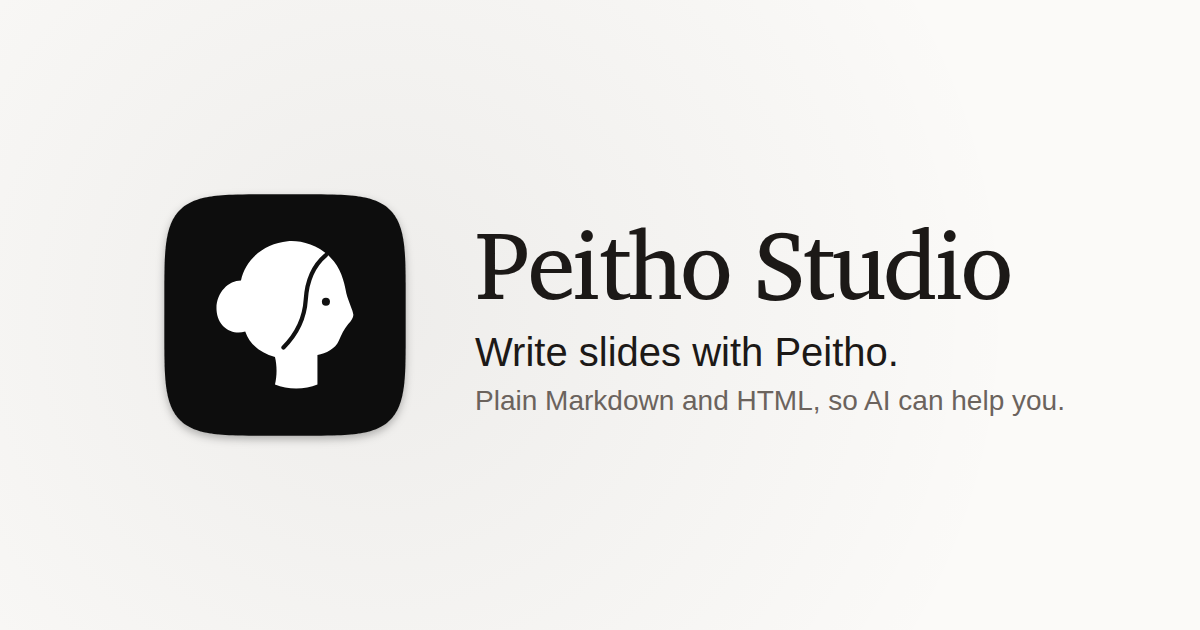
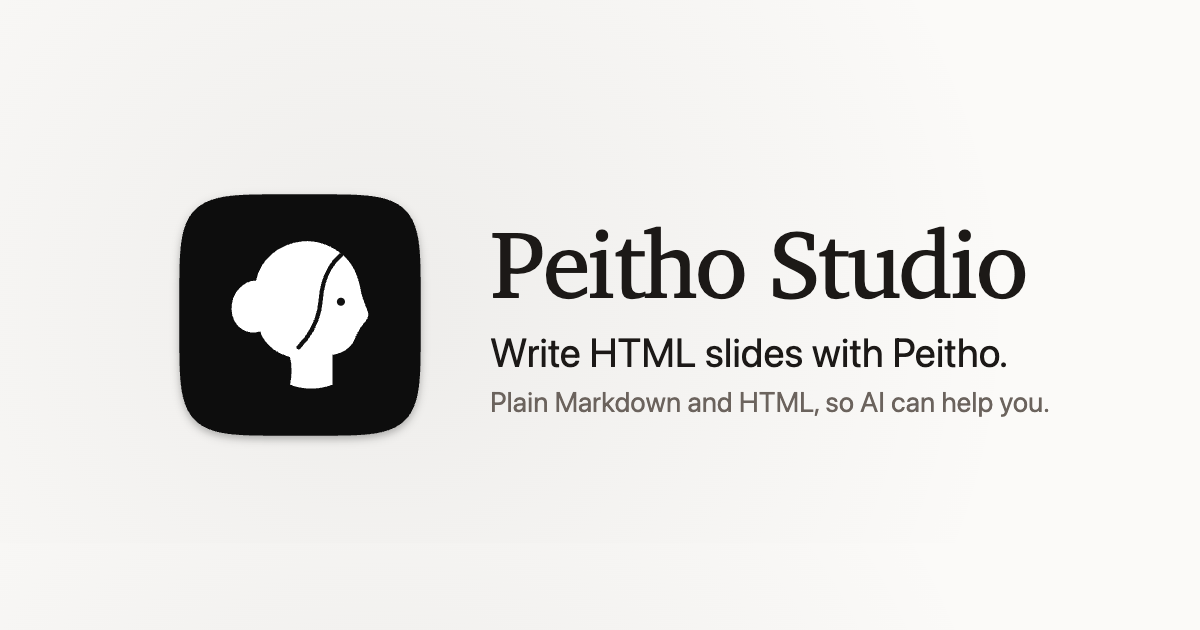
Clarify HTML slides in product tagline

diff --git a/site/index.html b/site/index.html
@@ -3,8 +3,8 @@
 <head>
   <meta charset="utf-8">
   <meta name="viewport" content="width=device-width, initial-scale=1">
-  <title>Peitho Studio — Write slides with Peitho</title>
-  <meta name="description" content="Peitho Studio is a desktop app for writing slides with Peitho, an HTML-native presentation tool that treats Markdown as the source of truth. Plain Markdown and HTML, so AI can help you.">
+  <title>Peitho Studio — Write HTML slides with Peitho</title>
+  <meta name="description" content="Peitho Studio is a desktop app for writing HTML slides with Peitho, an HTML-native presentation tool that treats Markdown as the source of truth. Plain Markdown and HTML, so AI can help you.">
   <meta name="theme-color" content="#fbfaf8">
   <meta name="color-scheme" content="light">
   <link rel="icon" type="image/svg+xml" href="../brand/app-icon-small.svg">
@@ -14,7 +14,7 @@
   <meta property="og:type" content="website">
   <meta property="og:site_name" content="Peitho Studio">
   <meta property="og:title" content="Peitho Studio">
-  <meta property="og:description" content="Write slides with Peitho. Plain Markdown and HTML, so AI can help you.">
+  <meta property="og:description" content="Write HTML slides with Peitho. Plain Markdown and HTML, so AI can help you.">
   <meta property="og:url" content="https://peitho-studio.piconic.ai/">
   <!-- Absolute on purpose: most link previewers ignore a relative og:image. -->
   <meta property="og:image" content="https://peitho-studio.piconic.ai/og.png">
@@ -39,7 +39,7 @@
       <div class="hero-copy">
         <img class="hero-icon" src="../brand/app-icon.svg" alt="" width="128" height="128">
         <h1 id="title">Peitho Studio</h1>
-        <p class="hero-lede">Write slides with <a href="https://peitho.gosu.ke">Peitho</a>.</p>
+        <p class="hero-lede">Write HTML slides with <a href="https://peitho.gosu.ke">Peitho</a>.</p>
         <p class="hero-sub">Edit Markdown. Preview slides. Bring your AI Agent.</p>
       </div>
 

diff --git a/e2e/about-window.e2e.ts b/e2e/about-window.e2e.ts
@@ -30,7 +30,7 @@ test.describe('functional', () => {
 
     await expect(page.locator('img[src="/static/app-icon.svg"]')).toBeVisible()
     await expect(row(page, 'name')).toHaveText('Peitho Studio')
-    await expect(page.getByText('Write slides with Peitho. Plain Markdown and HTML, so AI can help you.')).toBeVisible()
+    await expect(page.getByText('Write HTML slides with Peitho. Plain Markdown and HTML, so AI can help you.')).toBeVisible()
     await expect(row(page, 'version')).toHaveText('0.1.0')
     await expect(row(page, 'build')).toHaveText('42')
     await expect(row(page, 'commit')).toHaveText('5995c42')
@@ -64,7 +64,7 @@ test.describe('functional', () => {
   test('Given Japanese is the chosen UI language, when the About window opens, then its words are in Japanese', async ({ page }) => {
     await openAbout(page, { settings: { uiLanguage: 'ja' } })
 
-    await expect(page.getByText('Peithoでスライドを書く。素のMarkdownとHTMLなので、AIに手伝ってもらえます。')).toBeVisible()
+    await expect(page.getByText('PeithoでHTMLスライドを書く。素のMarkdownとHTMLなので、AIに手伝ってもらえます。')).toBeVisible()
     await expect(page.getByText('バージョン')).toBeVisible()
     await expect(page.getByRole('button', { name: 'Webサイト' })).toBeVisible()
     await expect(page.getByRole('button', { name: 'ライセンス' })).toBeVisible()

diff --git a/domain/messages.ts b/domain/messages.ts
@@ -488,7 +488,7 @@ const en: Messages = {
   imageLayoutAddFailed: error => `Could not add the image layout: ${error}`,
 
   // Same words as the site's (site/index.html).
-  aboutDescription: 'Write slides with Peitho. Plain Markdown and HTML, so AI can help you.',
+  aboutDescription: 'Write HTML slides with Peitho. Plain Markdown and HTML, so AI can help you.',
   aboutVersion: 'Version',
   aboutBuild: 'Build',
   aboutCommit: 'Commit',
@@ -702,7 +702,7 @@ const ja: Messages = {
   layoutAlreadyApplied: layout => `スライドはすでにレイアウト ${layout} を使っています`,
   imageLayoutAddFailed: error => `画像用レイアウトを追加できませんでした: ${error}`,
 
-  aboutDescription: 'Peithoでスライドを書く。素のMarkdownとHTMLなので、AIに手伝ってもらえます。',
+  aboutDescription: 'PeithoでHTMLスライドを書く。素のMarkdownとHTMLなので、AIに手伝ってもらえます。',
   aboutVersion: 'バージョン',
   aboutBuild: 'ビルド',
   aboutCommit: 'コミット',

diff --git a/site/scripts/build-brand-assets.ts b/site/scripts/build-brand-assets.ts
@@ -41,7 +41,7 @@ await shoot(`<div style="width:1200px;height:630px;display:flex;align-items:cent
   background:radial-gradient(640px 640px at 380px 315px, rgba(28,25,23,.06), rgba(28,25,23,0)), #fbfaf8;color:#1c1917">
   <img src="${appIcon}" width="300" height="300">
   <div><div style="font-family:'Charis SIL',serif;font-size:96px;letter-spacing:-.03em;line-height:1.05">Peitho Studio</div>
-  <div style="font-family:-apple-system,BlinkMacSystemFont,'Segoe UI','Noto Sans',Helvetica,Arial,sans-serif;font-size:40px;margin-top:16px">Write slides with Peitho.</div>
+  <div style="font-family:-apple-system,BlinkMacSystemFont,'Segoe UI','Noto Sans',Helvetica,Arial,sans-serif;font-size:40px;margin-top:16px">Write HTML slides with Peitho.</div>
   <div style="font-family:-apple-system,BlinkMacSystemFont,'Segoe UI','Noto Sans',Helvetica,Arial,sans-serif;font-size:28px;color:#6b635d;margin-top:10px">Plain Markdown and HTML, so AI can help you.</div></div></div>`,
   1200, 630, 'og.png')
 

diff --git a/site/README.md b/site/README.md
@@ -6,7 +6,7 @@ from the app (its own `package.json` and lockfile), living in `site/`.
 ## Stack
 
 - One static `index.html`, styled by `public/site.css` (light only):
-  - a hero with the app icon, "Peitho Studio", "Write slides with Peitho."
+  - a hero with the app icon, "Peitho Studio", "Write HTML slides with Peitho."
     ("Edit Markdown. Preview slides. Bring your AI Agent.") above a recording of the real Studio UI demonstrating Markdown editing and an Agent-assisted HTML layout change;
   - a "Built on Peitho" card: Peitho's one-line description and a small
     Markdown-to-slide illustration, linking to

diff --git a/README.md b/README.md
@@ -6,7 +6,7 @@
 
 # Peitho Studio
 
-*Write slides with [Peitho](https://github.com/mizzy/peitho).*
+*Write HTML slides with [Peitho](https://github.com/mizzy/peitho).*
 
 A desktop editor for presentations: Markdown as the source of truth, HTML slides you can interact with. Use HTML, CSS and JavaScript to build slides your audience can explore. Edit them yourself, work with an AI coding agent, or use both.
 
